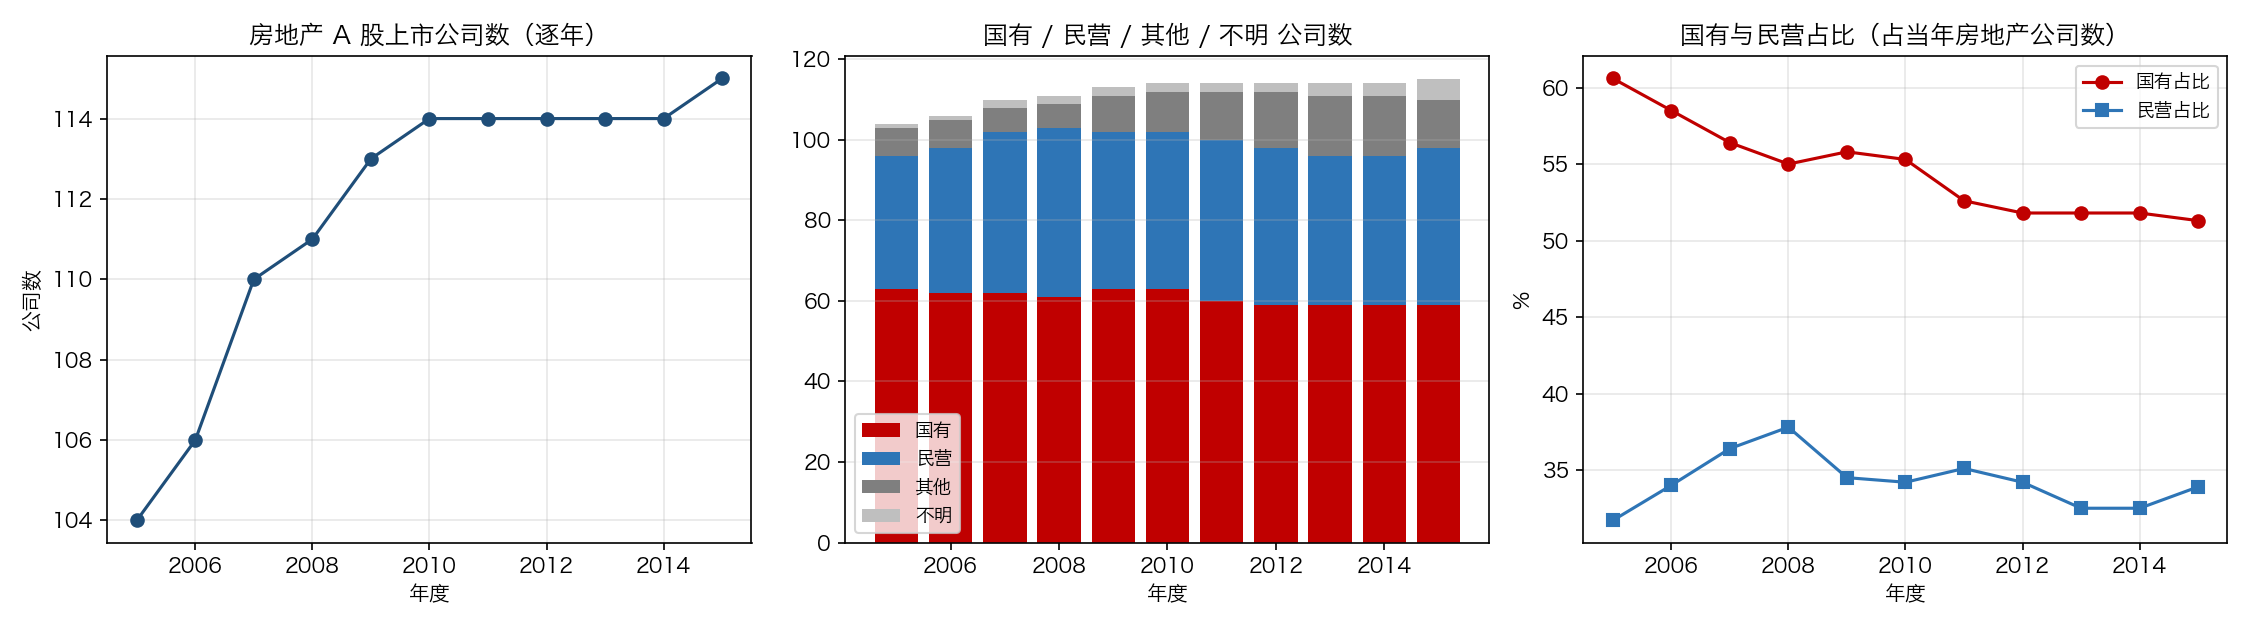
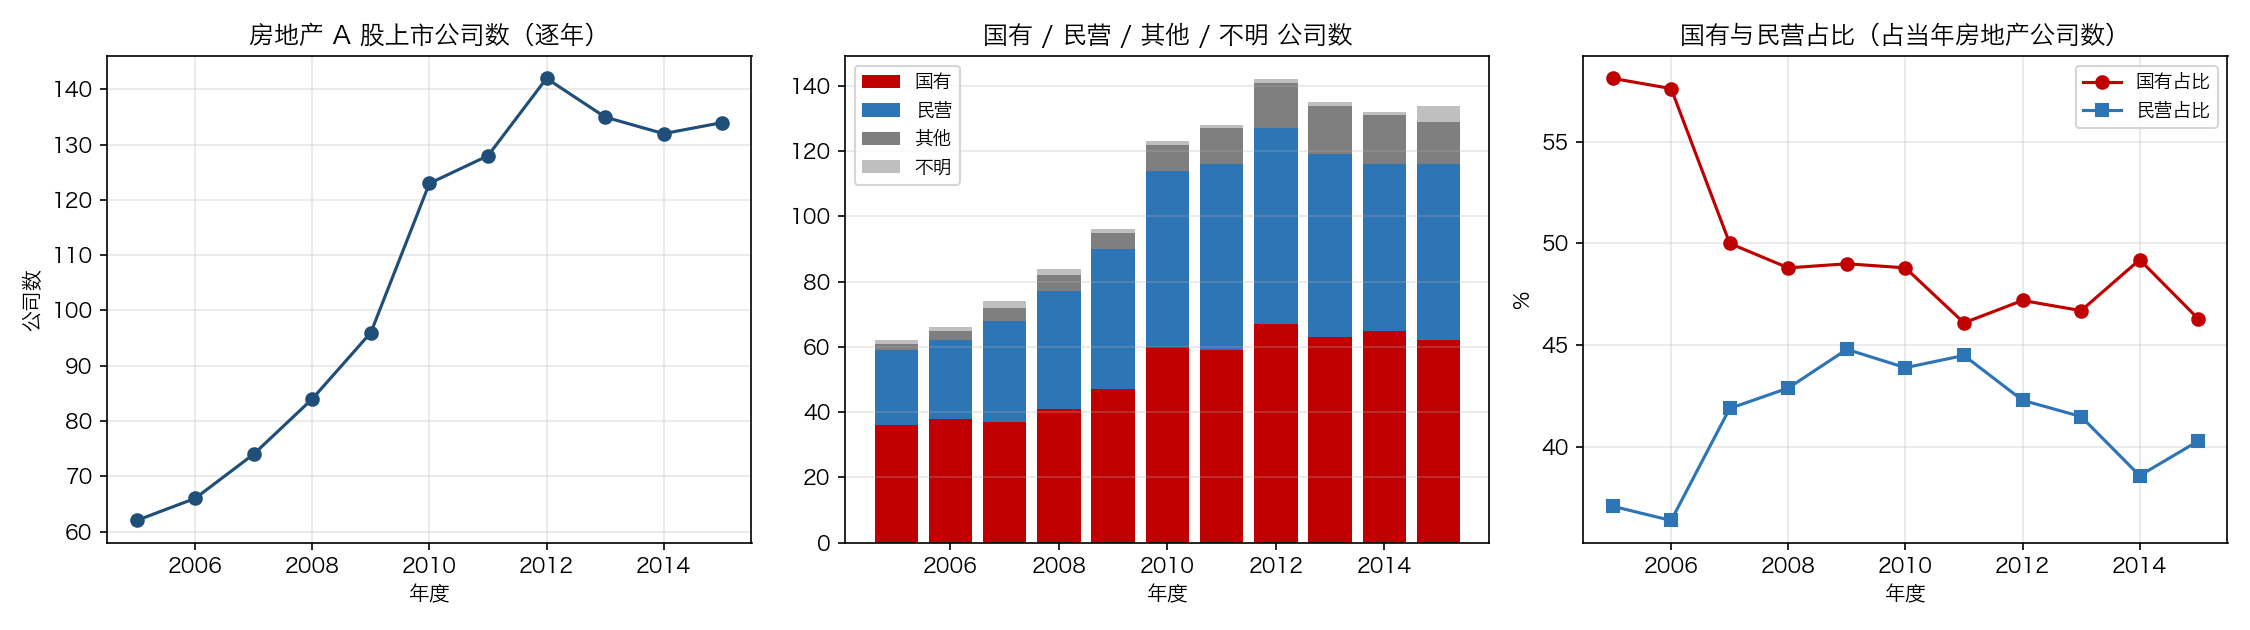
feat(hw02-2): 五张表全部到位，面板与四类输出全量跑通
- 路径解析改为多候选优先：资产负债表补充/利润表补充/资产负债表补充/04/
  股权性质/补充，均 170 家覆盖
- 面板 1,821 观测 × 170 家；利润表未匹配 0；上年末分母缺失 12（IPO 首年，结构性）
- 逐年覆盖率 97—99%，缺的 5 家全为 B 股（本应排除）→ A 股房地产实质全覆盖
- 产权逐年完整：不明降至 1—5 家/年
- 四类输出生成：2005 62 家(国有 58.1%) → 2015 134 家(国有 46.3%)；
  六指标均值/中位数时序、国有民营比较、年度有效样本量表
- TASKS.md 更新：数据获取全部完成，剩余为分析与交付

diff --git a/hw-02-2/scripts/build_panel.py b/hw-02-2/scripts/build_panel.py
@@ -60,20 +60,28 @@ def is_a_share(code: str) -> bool:
 # ---------- 阶段 0：原始读取 ----------
 flow = []  # 样本处理表
 
-BS_DIR = "资产负债表补充" if (RAW / "资产负债表补充").exists() else "资产负债表"
-IS_DIR = "利润表补充" if (RAW / "利润表补充").exists() else "利润表"
-BS04_DIR = "04年资产负债表补充" if (RAW / "04年资产负债表补充").exists() else "04年资产负债表"
+def pick(*cands):
+    """按优先级返回第一个存在的路径。"""
+    for c in cands:
+        p = RAW / c
+        if p.exists():
+            return p
+    raise FileNotFoundError(f"未找到任一候选: {cands}")
 
-bs_raw = read_json(RAW / BS_DIR / "FS_Combas.json")
-flow.append((f"0-0 资产负债表原始行 [{BS_DIR}]", len(bs_raw), bs_raw["Stkcd"].nunique()))
+BS_DIR   = pick("资产负债表补充", "资产负债表")          # 2005—2015
+IS_DIR   = pick("利润表补充", "利润表")                   # 2005—2015
+BS04_P   = pick("资产负债表补充/04", "04年资产负债表补充", "04年资产负债表")  # 2004 年末
+EN_P     = pick("股权性质/补充/EN_EquityNatureAll.json",
+                "股权性质补充/EN_EquityNatureAll.json",
+                "股权性质/EN_EquityNatureAll.json")
 
-bs04_raw = read_json(RAW / BS04_DIR / "FS_Combas.json")
-flow.append((f"0-1 资产负债表原始行(2004) [{BS04_DIR}]", len(bs04_raw), bs04_raw["Stkcd"].nunique()))
-
-inc_raw = read_json(RAW / IS_DIR / "FS_Comins.json")
-flow.append((f"0-2 利润表原始行 [{IS_DIR}]", len(inc_raw), inc_raw["Stkcd"].nunique()))
-
-en_raw = read_json(RAW / "股权性质/EN_EquityNatureAll.json")
+bs_raw   = read_json(BS_DIR / "FS_Combas.json")
+bs04_raw = read_json(BS04_P / "FS_Combas.json")
+inc_raw  = read_json(IS_DIR / "FS_Comins.json")
+en_raw   = read_json(EN_P)
+flow.append((f"0-0 资产负债表原始行 [{BS_DIR.name}]", len(bs_raw), bs_raw["Stkcd"].nunique()))
+flow.append((f"0-1 资产负债表原始行(2004) [{BS04_P.name}]", len(bs04_raw), bs04_raw["Stkcd"].nunique()))
+flow.append((f"0-2 利润表原始行 [{IS_DIR.name}]", len(inc_raw), inc_raw["Stkcd"].nunique()))
 flow.append(("0-3 股权性质原始行（2004—2015）", len(en_raw), en_raw["Symbol"].nunique()))
 
 # ---------- 阶段 1：合并报表 + 年末 + A 股 ----------

diff --git a/hw-02/TASKS.md b/hw-02/TASKS.md
@@ -1,7 +1,7 @@
 # HW02 任务清单
 
-截止：**2026-09-28 23:59**（北京时间），坚果云提交两个已运行的 `.ipynb`。
-更新：2026-09-25 19:10 | 每题 100 分，两题各占本次作业 50%
+截止：**2026-09-28 23:59**（北京时间），坚果云提交两个已运行的 `.ipynb`
+更新：2026-09-25 20:50 | 每题 100 分，两题各占本次作业 50%
 
 评分构成（每题）：来源/样本/口径 20 · 清洗合并离群值 25 · 指标图表 20 · 解释结论 25 · 组织复现 10
 
@@ -24,40 +24,42 @@
 
 ---
 
-## 二、HW02-2：房地产公司财务特征 —— 🔄 数据收尾中
+## 二、HW02-2：房地产公司财务特征 —— 🔄 数据已齐，进入分析阶段
 
-### A. 数据获取（5 张表）
+### A. 数据获取 —— ✅ 五张表全部到位
 
-| # | 表 | 状态 | 说明 |
+| # | 表 | 覆盖 | 状态 |
 |---|---|---|---|
-| 1 | 资产负债表 2005—2015 | ⚠ **需补导** | 现为 117 家（按当前分类筛，漏 71 家），须改用 170 代码清单 |
-| 2 | 利润表 2005—2015 | ⚠ **需补导** | 同上 |
-| 3 | 资产负债表 2004 年末 | ⚠ **需补导** | 可与第 1 项合并为一次导出（2004-01-01~2015-12-31） |
-| 4 | 股权性质 2004—2015 逐年 | ✅ | 1,321 行 / 116 家，含国企/民营/外资/其他 |
-| 5 | 年度行业表 STK_LISTEDCOINFOANL | ✅ | 24,197 行 / 2,910 家 / 无重复键 |
+| 1 | 资产负债表 2005—2015（补充） | 170/170 目标代码 | ✅ |
+| 2 | 利润表 2005—2015（补充） | 170/170 | ✅ |
+| 3 | 资产负债表 2004 年末 | 158 家，2005 年面板公司全覆盖 | ✅ |
+| 4 | 股权性质 2004—2015 逐年（补充） | 170/170，1,979 行 | ✅ |
+| 5 | 年度行业表 STK_LISTEDCOINFOANL | 24,197 行 / 2,910 家 / 无重复键 | ✅ |
+
+逐年覆盖率 **97—99%**（缺的 5 家全为 B 股，本应排除）→ A 股房地产公司实质全覆盖。
 
 ### B. 清洗、合并与指标
 
-| # | 任务 | 状态 | 说明 |
+| # | 任务 | 状态 | 关键结果 |
 |---|---|---|---|
-| 6 | 字段映射与数据字典 | 🔄 已完成 4/5 表 | 科目编码已逐条核对（万科 2015 与年报一致） |
-| 7 | 企业—年度非平衡面板 | 🔄 已跑通（1,229 观测 / 117 家） | 补数据后重跑 |
-| 8 | 逐年房地产身份判定 | 🔄 规则已定并验证 | 2001 版 J*（≤2011）/ 2012 版 K70（≥2012） |
-| 9 | 产权分类（国有/民营/其他/不明） | ✅ | 非国有≠民营；外资·复合·缺失单列 |
-| 10 | 六项指标计算 | 🔄 已算（补数据后重跑） | 零/负分母返回缺失并计数 |
-| 11 | 离群值与异常分母处理 | 🔄 诊断已出 | 13 个结构性缺失（新上市首年）+ 负权益 ST 公司极值 |
-| 12 | 处理前后敏感性比较 | ⬜ 待做 | 作业第 5 节「按需」要求 |
+| 6 | 字段映射与数据字典 | ✅ | 科目编码逐条核对，万科 2015 与年报一致 |
+| 7 | 企业—年度非平衡面板 | ✅ | **1,821 观测 × 170 家**（2005—2015） |
+| 8 | 逐年房地产身份判定 | ✅ | 2001 版 J*（≤2011）/ 2012 版 K70（≥2012） |
+| 9 | 产权分类（国有/民营/其他/不明） | ✅ | 170/170 逐年；非国有≠民营 |
+| 10 | 六项指标计算 | ✅ | 零/负分母返回缺失并计数（ROA/ROE 12 个、bankloan 1 个） |
+| 11 | 离群值与异常分母处理 | 🔄 诊断已出 | 20 个极值全为负权益公司（大洲兴业 7 年、中润资源 877） |
+| 12 | 处理前后敏感性比较 | ⬜ 待做 | 作业第 5 节「按需」 |
 
-### C. 图表与输出（各 4 类）
+### C. 图表与输出（初版已生成，待定稿）
 
-| # | 输出 | 状态 |
-|---|---|---|
-| 13 | 逐年公司总数 + 产权四类数量 + 国有民营占比 | 🔄 代码就绪，待补数据后出图 |
-| 14 | 六指标全样本均值 + 中位数时序图 | 🔄 同上 |
-| 15 | 国有 vs 民营 均值比较图 | 🔄 同上 |
-| 16 | 国有 vs 民营 中位数比较图 | 🔄 同上 |
-| 17 | 各指标年度有效样本量表 | 🔄 同上 |
-| 18 | 样本处理表（下载/筛选/合并/构造各阶段） | 🔄 部分完成 |
+| # | 输出 | 状态 | 初版结果 |
+|---|---|---|---|
+| 13 | 逐年公司数 + 产权四类 + 国有民营占比 | ✅ 已出图 | 2005：62 家（国有 58.1%）→ 2015：134 家（国有 46.3%） |
+| 14 | 六指标全样本均值 + 中位数时序 | ✅ 已出图 | 资产负债率 0.62—0.80；ROA 2015 降至 1.0% |
+| 15 | 国有 vs 民营 均值比较 | ✅ 已出图 | — |
+| 16 | 国有 vs 民营 中位数比较 | ✅ 已出图 | — |
+| 17 | 各指标年度有效样本量表 | ✅ 已出表 | 62（2005）→134（2015） |
+| 18 | 样本处理表 | 🔄 部分完成 | 各阶段观测数已记录 |
 
 ### D. 交付物
 
@@ -71,25 +73,26 @@
 
 ---
 
-## 三、需要你做的（3 项）
+## 三、需要你做的（2 项，都不阻塞我做分析）
 
 | 优先级 | 事项 | 说明 |
 |---|---|---|
-| **1（阻塞）** | 补导资产负债表（2004-01-01~2015-12-31）与利润表（2005-01-01~2015-12-31），均选**合并报表** | 代码用 `hw-02-2/re_codes_2005_2015.txt` 里的 170 个代码，整段粘贴进 CSMAR 代码选择框。导完覆盖同名文件即可 |
-| **2** | ~~告诉我学号~~ ✅ 已提供 | 仅用于坚果云提交版命名；**完整学号不入公开仓库**（作业要求公开版以课程编号替代），提交副本将生成在仓库之外 |
-| **3** | `git push` + 坚果云上传 | 本地有 **15 个 commit 未推送**（代理阻断，需你手动推）；坚果云按命名上传两个 ipynb |
+| **1** | `git push` | 本地 **17 个 commit 未推送**（代理阻断，需你手动推） |
+| **2** | 坚果云上传 | 我生成好 `23347105-朱家瑞-HW02-1.ipynb` / `-2.ipynb` 后，由你上传 |
 
-另需你对照课堂通知确认一件事：作业原文要求复现仓库为 `FinEco-hw/hw02-1|hw02-2`，与现有 `fineco-homework/hw-02|hw-02-2` 结构不同——以最新课堂通知为准。
+学号与姓名已记录，**完整学号不入公开仓库**（作业要求公开版以课程编号替代），提交副本生成在仓库之外。
+
+另需你对照课堂通知确认：作业原文要求复现仓库为 `FinEco-hw/hw02-1|hw02-2`，与现有 `fineco-homework/hw-02|hw-02-2` 结构不同——以最新课堂通知为准。
 
 ## 四、我负责的（你不用管）
 
-补导数据到位后，第 6—23 项全部由我完成：重跑面板 → 逐年行业筛选 → 六指标 → 四类图 → 敏感性比较 → 样本处理表 → Notebook 写作 → 结论与 AI 声明 → 提交前核验。
+第 11—23 项全部由我完成：离群值处理与敏感性比较 → 图表定稿 → 样本处理表 → Notebook 写作 → 结论与 AI 声明 → 生成提交副本 → 提交前核验。
 
 ## 五、两题共同要求（提交前自检）
 
 - [ ] 重启内核从头运行，保存后重新打开检查
 - [ ] 分析说明 / 代码 / 解读三段完整，图表与中文正常
 - [ ] 无未处理报错，数据与路径可复现
-- [ ] 提交版有姓名学号；公开材料不含受限数据
+- [ ] 提交版有姓名学号；公开材料不含受限数据、完整学号
 - [ ] 每题末尾有总体结论；AI 使用声明已填
 - [ ] CSMAR 原始文件不进公开仓库（已加 `.gitignore`）
